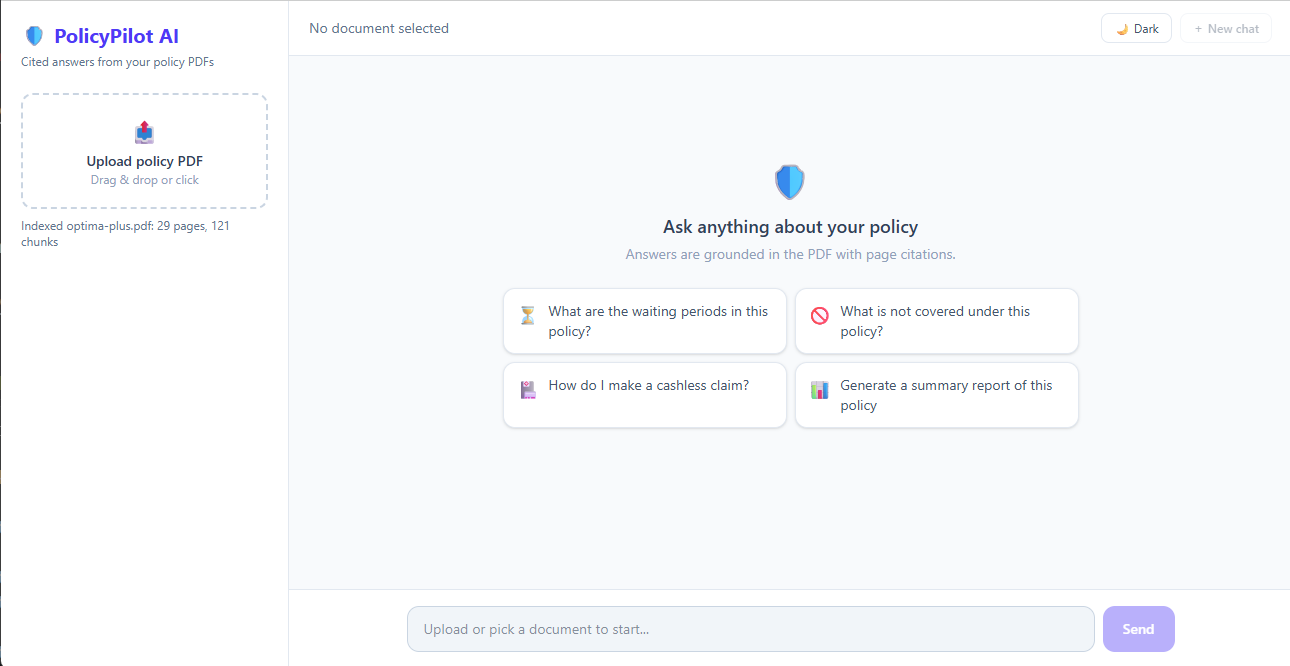
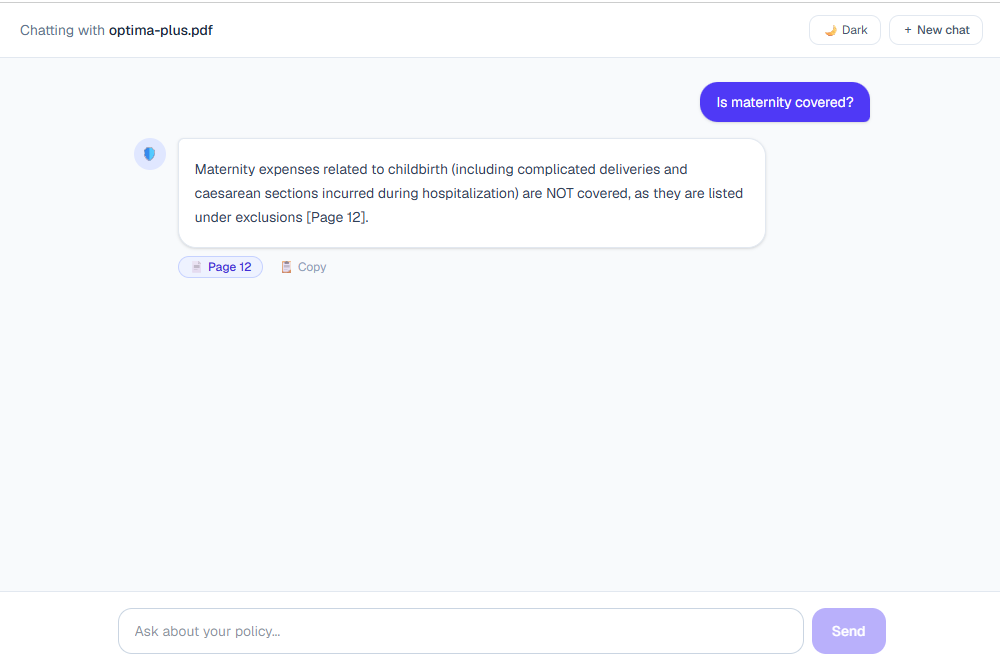
docs: refresh screenshots

diff --git a/README.md b/README.md
@@ -69,9 +69,9 @@ Found and fixed a hallucination: the app said maternity was "covered" when the p
 
 ## Screenshots
 
-| Chat with citations            | Report                           |
-| ------------------------------ | -------------------------------- |
-| ![](docs/screenshots/chat.png) | ![](docs/screenshots/report.png) |
+| Home                           | Chat with citations            | Report                           |
+| ------------------------------ | ------------------------------ | -------------------------------- |
+| ![](docs/screenshots/home.png) | ![](docs/screenshots/chat.png) | ![](docs/screenshots/report.png) |
 
 ## Run locally
 
